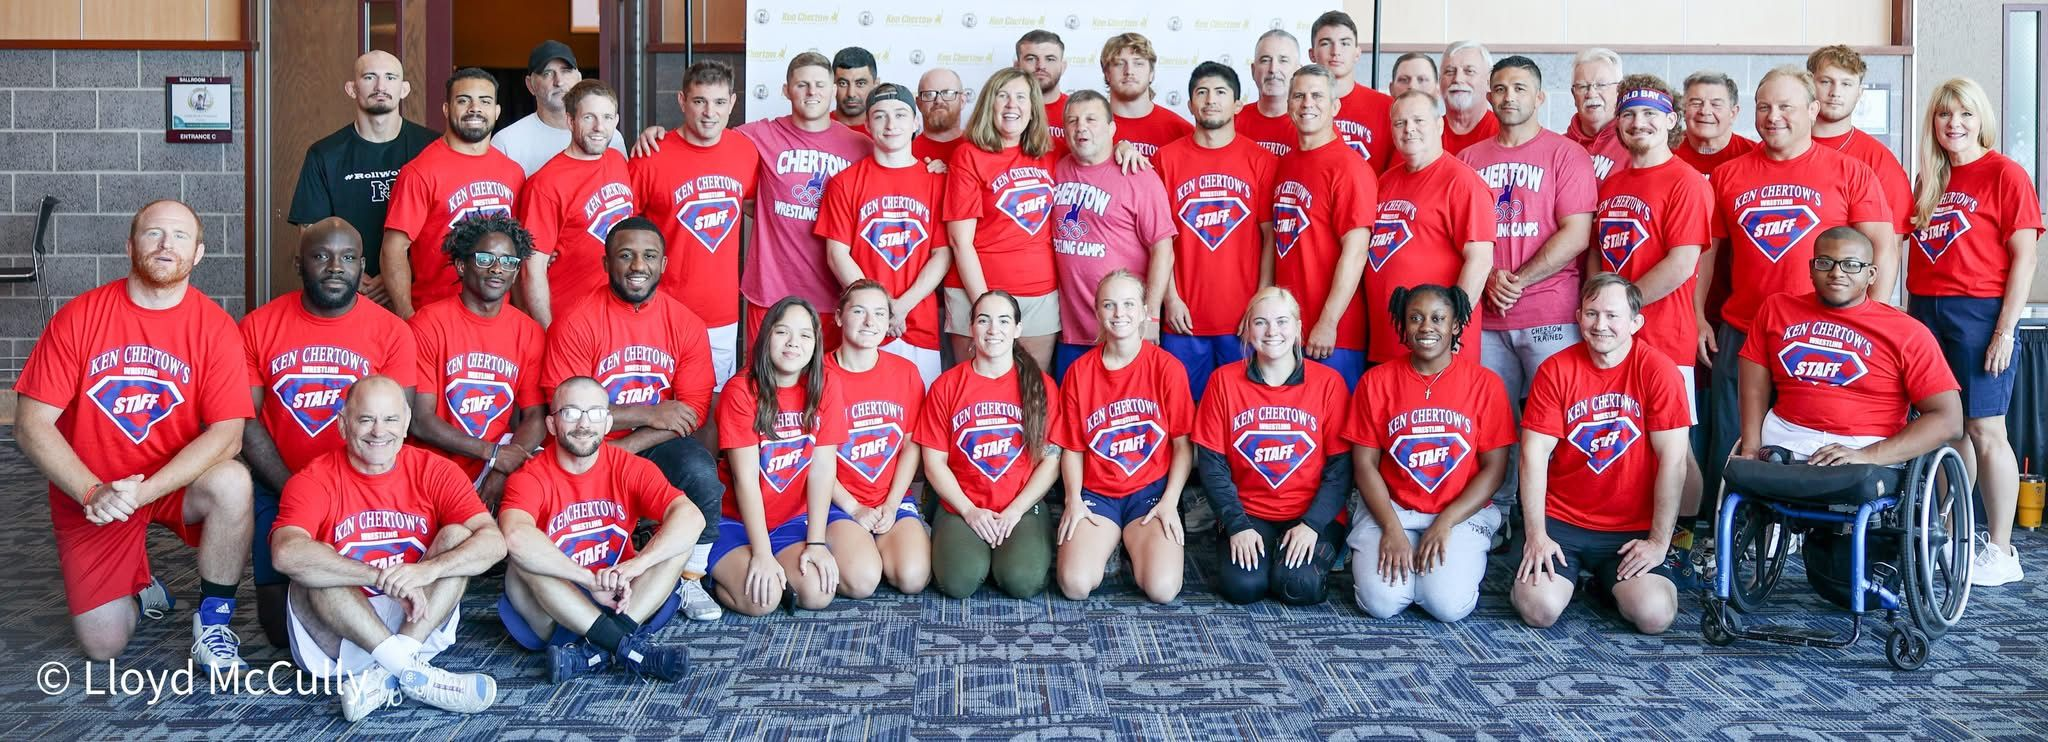
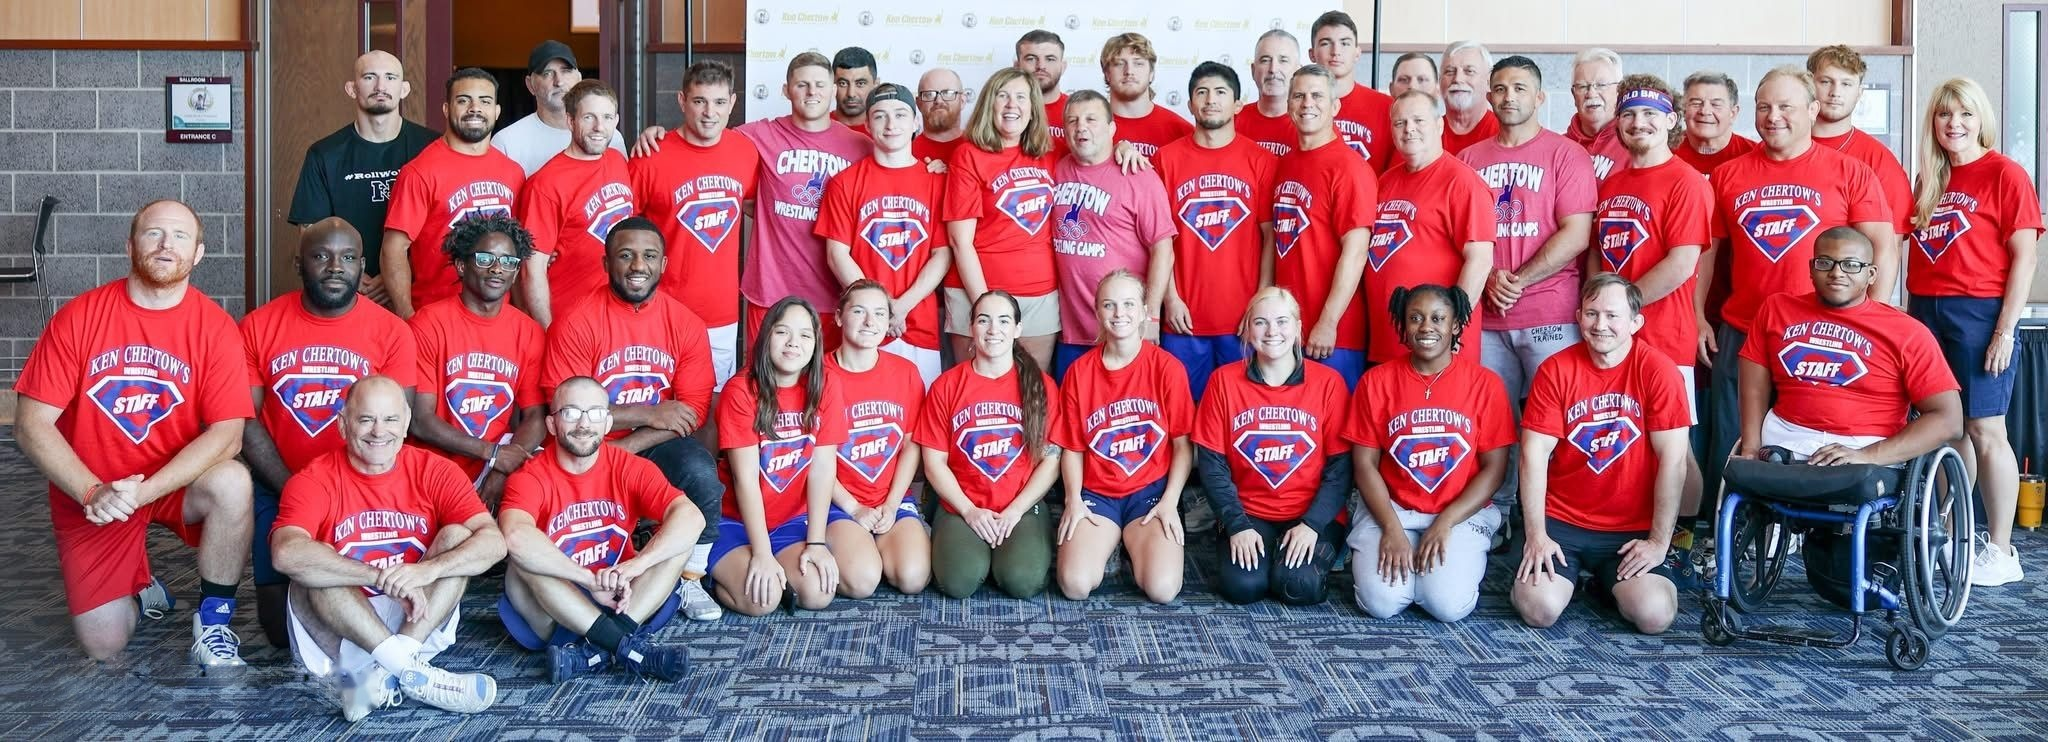
kc-camps 2027: remove watermark, add Clint Musser + Ricky Bonomo + Rocky Bonomo, phone tile fix

Changed region(s): [[0.0, 0.8679, 0.1875, 0.9609]]

diff --git a/kc-camps/2027/index.html b/kc-camps/2027/index.html
@@ -10,7 +10,7 @@
 <link rel="preconnect" href="https://fonts.googleapis.com">
 <link rel="preconnect" href="https://fonts.gstatic.com" crossorigin>
 <link href="https://fonts.googleapis.com/css2?family=Anton&display=swap" rel="stylesheet">
-<link rel="stylesheet" href="styles.css?v=r8d">
+<link rel="stylesheet" href="styles.css?v=r8e">
 <!-- CAMP DATES: edit here. Every date on this page is filled from these two values. -->
 <script>window.CAMP_DATES={pa:"July 11–22, 2027",pa5:"July 18–22, 2027",oh:"June 19–24, 2027"};</script>
 </head>
@@ -385,10 +385,13 @@
         <article class="star"><div class="ph"><img src="assets/img/r2-c-brad-pataky.jpg" alt="Brad Pataky" width="400" height="400" loading="lazy"></div><h4>Brad Pataky</h4><p>NCAA qualifier at Penn State.</p></article>
         <article class="star"><div class="ph"><img src="assets/img/r2-c-john-stutzman.jpg" alt="John Stutzman" width="600" height="600" loading="lazy"></div><h4>John Stutzman</h4><p>Team USA national freestyle coach.</p></article>
         <article class="star"><div class="ph"><img src="assets/img/r2-c-roger-stewart.jpg" alt="Roger Stewart" width="600" height="600" loading="lazy"></div><h4>Roger Stewart</h4><p>2X Deaflympian. 5X Senior Deaflympic Team Trials champion.</p></article>
+        <article class="star"><div class="ph"><img src="assets/img/r8-c-clint-musser.jpg" alt="Clint Musser" width="600" height="600" loading="lazy"></div><h4>Clint Musser</h4><p>NCAA finalist and 3X All-American at Penn State. Head coach of women's wrestling at Walsh Jesuit.</p></article>
         <article class="star"><div class="ph"><img src="assets/img/r2-c-kyle-ruschell.jpg" alt="Kyle Ruschell" width="600" height="800" loading="lazy"></div><h4>Kyle Ruschell</h4><p>2X NCAA All-American at Wisconsin. Head coach at Chattanooga (UTC).</p></article>
         <article class="star"><div class="ph"><img src="assets/img/r2-c-nodir-safarov.jpg" alt="Nodir Safarov" width="600" height="600" loading="lazy"></div><h4>Nodir Safarov</h4><p>National champion and Junior World medalist.</p></article>
         <article class="star"><div class="ph"><img src="assets/img/r2-c-scott-hinkel.jpg" alt="Scott Hinkel" width="600" height="600" loading="lazy"></div><h4>Scott Hinkel</h4><p>NCAA All-American. Retired head coach, Purdue.</p></article>
         <article class="star"><div class="ph"><img src="assets/img/r2-c-stump-wagner.jpg" alt="Stump Wagner" width="600" height="600" loading="lazy"></div><h4>Stump Wagner</h4><p>NCAA qualifier. Assistant coach, Mercyhurst.</p></article>
+        <article class="star"><div class="ph"><img src="assets/img/r8-c-ricky-bonomo.jpg" alt="Ricky Bonomo" width="600" height="600" loading="lazy"></div><h4>Ricky Bonomo</h4><p>3X NCAA Division I National Champion. 3X EWL Champion and Wrestler of the Year. 3X PSAC Champion and Wrestler of the Year. Distinguished Member, National Wrestling Hall of Fame.</p></article>
+        <article class="star"><div class="ph"><img src="assets/img/r8-c-rocky-bonomo.jpg" alt="Rocky Bonomo" width="600" height="600" loading="lazy"></div><h4>Rocky Bonomo</h4><p>2X NCAA D1 All-American. 3X EWL and 3X PSAC champion. PA state champion with twin brother Ricky, 1981.</p></article>
         <article class="star"><div class="ph"><img src="assets/img/r2-c-garrett-lineberger.jpg" alt="Garrett Lineberger" width="600" height="600" loading="lazy"></div><h4>Garrett Lineberger</h4><p>NCAA champion, University of Notre Dame.</p></article>
         <article class="star"><div class="ph"><img src="assets/img/r2-c-mckayla-campbell.jpg" alt="McKayla Campbell" width="600" height="600" loading="lazy"></div><h4>McKayla Campbell</h4><p>NAIA national champion and 3X NAIA All-American. Assistant coach, Campbellsville.</p></article>
         <article class="star"><div class="ph"><img src="assets/img/r2-c-dave-habat.jpg" alt="Dave Habat" width="600" height="600" loading="lazy"></div><h4>Dave Habat</h4><p>2X NCAA All-American, Edinboro.</p></article>

diff --git a/kc-camps/2027/styles.css b/kc-camps/2027/styles.css
@@ -851,3 +851,11 @@ section{position:relative}
 @media (max-width:1180px){.star-grid.feat-grid{grid-template-columns:repeat(3,1fr)}.star-grid.tier-grid:not(.feat-grid){grid-template-columns:repeat(5,1fr)}}
 @media (max-width:980px){.star-grid.feat-grid{grid-template-columns:repeat(3,1fr)}.star-grid.tier-grid:not(.feat-grid){grid-template-columns:repeat(4,1fr)}.feat-grid .star h4{font-size:20px;padding:12px 12px 4px}.feat-grid .star p{font-size:13.5px;padding:0 12px 14px}}
 @media (max-width:620px){.star-grid.feat-grid{grid-template-columns:repeat(2,1fr)}.star-grid.tier-grid:not(.feat-grid){grid-template-columns:repeat(3,1fr);gap:8px}.feat-grid .star h4{font-size:18px;padding:10px 10px 3px}.feat-grid .star p{font-size:12.5px;padding:0 10px 12px}.tier-grid:not(.feat-grid) .star h4{font-size:13.5px;padding:8px 7px 3px}.tier-grid:not(.feat-grid) .star p{font-size:11px;padding:0 7px 9px}.tier-grid:not(.feat-grid) .star.cta{padding:14px 16px}}
+
+/* R8 last: phones. The 9th big tile no longer sits alone; it spans both columns, photo left / text right (same pattern as the .leg-more 7th card) */
+@media (max-width:620px){.star-grid.feat-grid .star:last-child:nth-child(odd){grid-column:1/-1;display:grid;grid-template-columns:1fr 1fr;align-items:start}
+.star-grid.feat-grid .star:last-child:nth-child(odd) .ph{grid-row:1/3}}
+/* R8 last: the staff-photo caption sits ON the photo as a solid band across the bottom-left, covering the corner where the photographer's mark was.
+   Phones: a band would hide most of a phone-size photo, so the caption stays below and the photo's bottom strip (feet row) is cropped instead. */
+.staff-hero figcaption{position:absolute;left:0;right:auto;top:auto;bottom:0;margin:0;min-height:15%;min-width:22%;display:flex;align-items:center}
+@media (max-width:620px){.staff-hero figcaption{position:static;min-height:0;min-width:0}.staff-hero img{aspect-ratio:2048/630;object-fit:cover;object-position:50% 0}}

diff --git a/kc-camps/2027/faq.html b/kc-camps/2027/faq.html
@@ -10,7 +10,7 @@
 <link rel="preconnect" href="https://fonts.googleapis.com">
 <link rel="preconnect" href="https://fonts.gstatic.com" crossorigin>
 <link href="https://fonts.googleapis.com/css2?family=Anton&display=swap" rel="stylesheet">
-<link rel="stylesheet" href="styles.css?v=r8b">
+<link rel="stylesheet" href="styles.css?v=r8e">
 <!-- CAMP DATES: keep these two values the same as in index.html. Every date span on this page is filled from them. -->
 <script>window.CAMP_DATES={pa:"July 11–22, 2027",pa5:"July 18–22, 2027",oh:"June 19–24, 2027"};</script>
 <style>

diff --git a/kc-camps/2027/register.html b/kc-camps/2027/register.html
@@ -9,7 +9,7 @@
 <link rel="preconnect" href="https://fonts.googleapis.com">
 <link rel="preconnect" href="https://fonts.gstatic.com" crossorigin>
 <link href="https://fonts.googleapis.com/css2?family=Anton&display=swap" rel="stylesheet">
-<link rel="stylesheet" href="styles.css?v=r8b">
+<link rel="stylesheet" href="styles.css?v=r8e">
 <style>
 .reg-hero{background:radial-gradient(120% 120% at 0% 100%,#0b2356 0%,var(--ink) 60%);padding:64px 0 120px}
 .reg-hero h1{font-size:clamp(56px,7vw,110px)}
